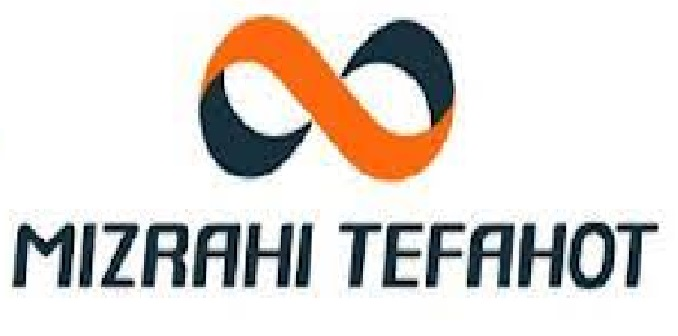
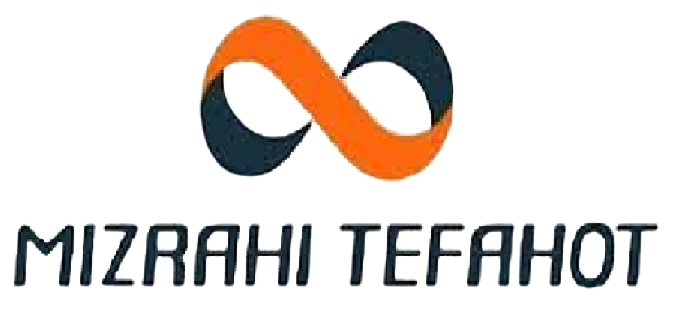
Change donation pictures, fix donation font

diff --git a/Lev Chedva Project/styles/Main_style.css b/Lev Chedva Project/styles/Main_style.css
@@ -168,8 +168,14 @@ nav ul li a {
 }
 
 .payment_pictures {
-  max-width: 200px;
-  max-height: 200px;
+  /* max-width: 200px;
+  max-height: 200px; */
+  max-width: 50%;
+  max-height: 50%;
+}
+.payment_text {
+  font-family: Arial, Helvetica, sans-serif;
+  font-size: xx-large;
 }
 
 .features h2 {
@@ -207,6 +213,8 @@ nav ul li a {
   font-size: 16px;
   line-height: 1.5;
   margin-bottom: 30px;
+  font-family: Arial, Helvetica, sans-serif;
+  font-size: larger;
   }
 
   .feature-item a:link, .feature-item a:visited {

diff --git a/Lev Chedva Project/Pages/MainPage.HTML b/Lev Chedva Project/Pages/MainPage.HTML
@@ -115,7 +115,7 @@
     <div class="feature-item">
       <!-- <i class="fa fa-cog"></i> -->
       <h3>Bank transfer</h3>
-      <img class = "payment_pictures" src="../Pictures/bank_HE.jpg" alt="bank_img">
+      <img class = "payment_pictures" src="../Pictures/bank.jpg" alt="bank_img">
       <!-- <p>Bank: Mizrahi Tefahot</p>
       <p>Branch: 479</p>
       <p>Account number: 166555</p>
